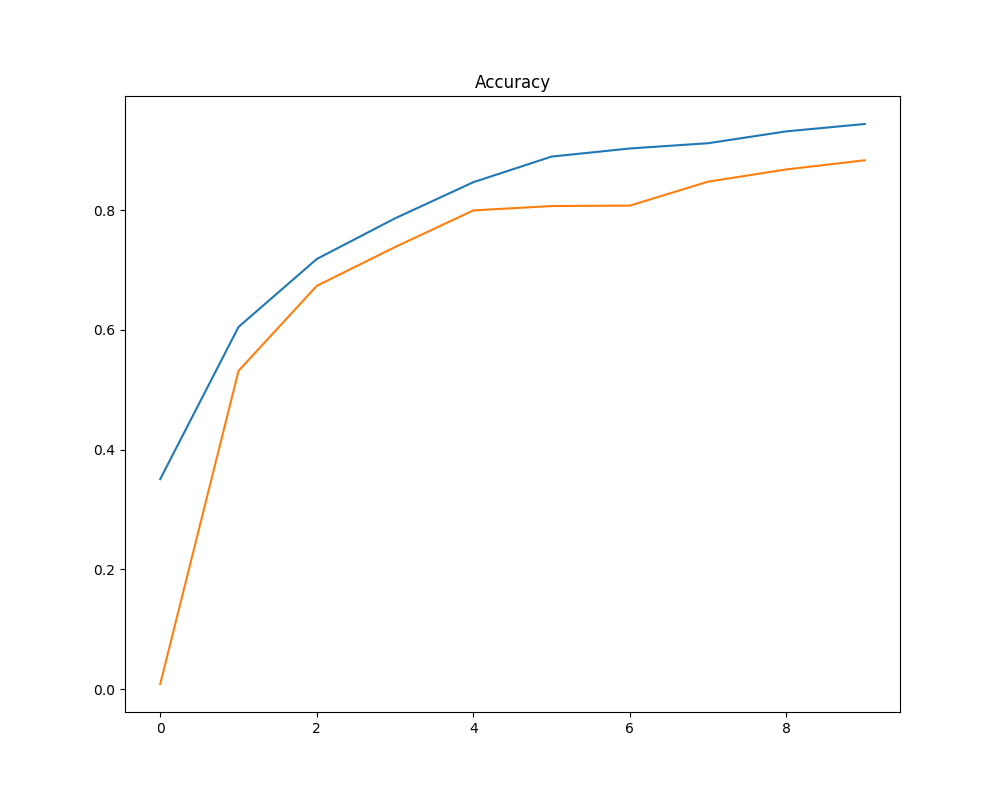
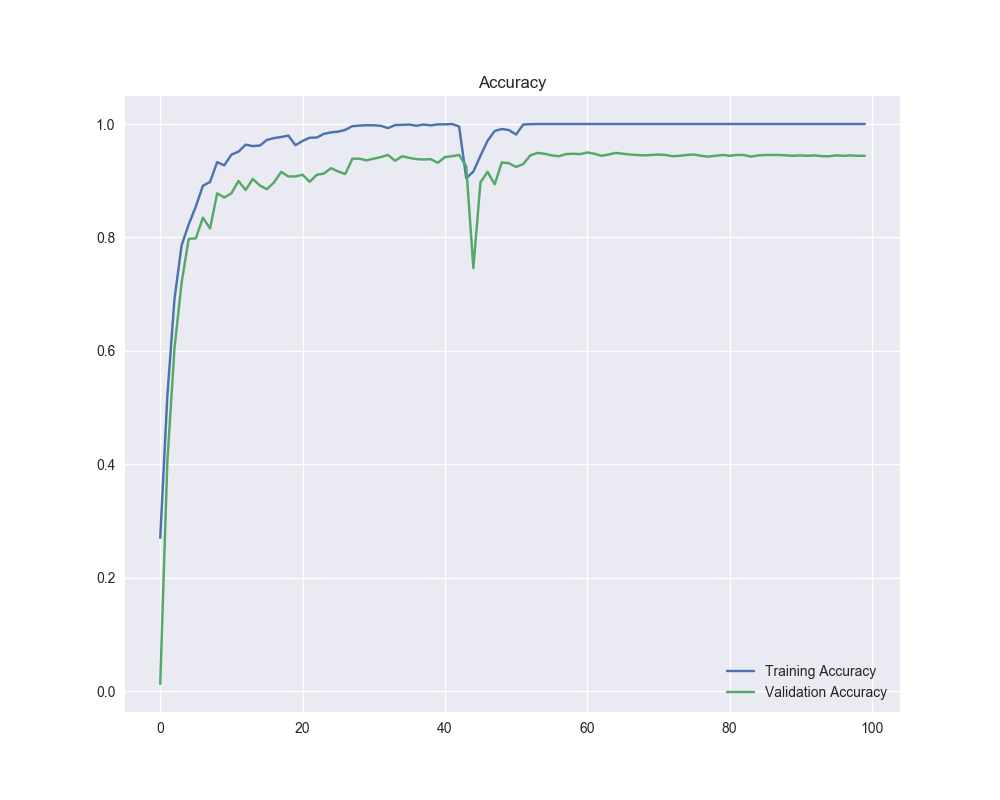
Update plots. 100 iterations

diff --git a/keras_mlp/belgium_keras_mlp.py b/keras_mlp/belgium_keras_mlp.py
@@ -7,6 +7,7 @@ from keras.models import Sequential
 from keras.layers import Dense, Activation
 from keras import initializers, optimizers
 import matplotlib.pyplot as plt
+from utils.generate_report import plot_confusion_matrix
 from sklearn.metrics import accuracy_score
 
 np.random.seed(892)
@@ -18,12 +19,12 @@ BATCH_SIZE = 60
 LAYER_1_UNITS = 784
 LAYER_2_UNITS = 196
 LAYER_3_UNITS = 49
-NB_EPOCHS = 10
+NB_EPOCHS = 100
 LR_VAL = 0.001
 
 
 def weight_initializer():
-    return initializers.TruncatedNormal(stddev=0.1)
+    return initializers.TruncatedNormal(stddev=0.1, seed=325)
 
 
 def bias_initializer():
@@ -60,15 +61,17 @@ def mlp_model():
 def plot_train_val_hist(train_perf, val_perf):
     # Plot cross entropy loss
     fig, ax = plt.subplots(figsize=(10, 8))
-    ax.plot(train_perf[:,0], label="Training Loss")
-    ax.plot(val_perf[:,0], label="Validation Loss")
+    ax.plot(train_perf[:, 0], label="Training Loss")
+    ax.plot(val_perf[:, 0], label="Validation Loss")
     ax.set_title("Cross-Entropy Loss")
+    plt.legend()
     plt.savefig("./keras_mlp/figures/Loss_Epochs.png")
 
     fig, ax = plt.subplots(figsize=(10, 8))
-    ax.plot(train_perf[:,1], label="Training Accuracy")
-    ax.plot(val_perf[:,1], label="Validation Accuracy")
+    ax.plot(train_perf[:, 1], label="Training Accuracy")
+    ax.plot(val_perf[:, 1], label="Validation Accuracy")
     ax.set_title("Accuracy")
+    plt.legend()
     plt.savefig("./keras_mlp/figures/Accuracy_Epochs.png")
 
     return None
@@ -89,7 +92,7 @@ def train(training_data, validation_data):
         for _ in range(training_data.num_examples // BATCH_SIZE):
             x, y = training_data.next_batch(BATCH_SIZE)
             train_perf_batch.append(model.train_on_batch(x=x, y=y))
-        train_perf.append(np.mean(train_perf_batch, axis=0)) #Average loss and accuracy across batches
+        train_perf.append(np.mean(train_perf_batch, axis=0))  # Average loss and accuracy across batches
     plot_train_val_hist(np.array(train_perf), np.array(val_perf))
     return model
 
@@ -97,7 +100,9 @@ def train(training_data, validation_data):
 def test(model, testing_data):
     test_preds = model.predict_on_batch(testing_data.images)  # returns probabilities for each class
     test_preds = np.argmax(test_preds, axis=1)
-    print("Test Acc: %0.4f" % (accuracy_score(y_true=np.argmax(testing_data.labels, axis=1), y_pred=test_preds)))
+    true_labels = np.argmax(testing_data.labels, axis=1)
+    plot_confusion_matrix(y_true=true_labels, y_pred=test_preds, file_name="./keras_mlp/figures/ConfusionMatrix.png")
+    print("Test Acc: %0.4f" % (accuracy_score(y_true=true_labels, y_pred=test_preds)))
     return test_preds
 
 

diff --git a/utils/generate_report.py b/utils/generate_report.py
@@ -3,15 +3,19 @@ import matplotlib.pyplot as plt
 import seaborn as sns
 from sklearn.metrics import confusion_matrix
 
+
 def plot_confusion_matrix(y_true, y_pred, title_text='Confusion Matrix', file_name="Confusion_Matrix.png"):
-    plt.figure(figsize=(25, 8))
-    cm = confusion_matrix(y_true, y_pred)
-    acc = np.sum(cm.diagonal()) / np.sum(cm)
-    cm_2 = cm / np.sum(cm, axis=1)[:, np.newaxis]
-    # cm_2 = np.append(cm_2, np.sum(cm, axis=1).reshape(len(labels), 1), axis=1)
-    # x_labels = np.append(labels, 'Support')
-    sns.heatmap(cm_2, annot=True, fmt='.2f', vmin=0, vmax=1)
-    plt.title(title_text, fontsize=20)
+    plt.figure(figsize=(25, 10))
+    sns.set(font_scale=1.5)
+    conf_mat = confusion_matrix(y_true, y_pred)
+    print(conf_mat.shape)
+    acc = np.sum(conf_mat.diagonal()) / np.sum(conf_mat)
+    conf_mat = conf_mat / np.sum(conf_mat, axis=1)[:, np.newaxis]
+    mask = conf_mat == 0
+    with sns.axes_style('white'):
+        sns.heatmap(conf_mat, fmt='.2f', vmin=0, vmax=1,
+                    mask=mask)
+    plt.title(title_text + "\nAccuracy: %0.2f" % (acc * 100), fontsize=20)
     plt.xlabel('Predicted', fontsize=15)
     plt.ylabel('Actual Class', fontsize=15)
     plt.yticks(rotation=0)
